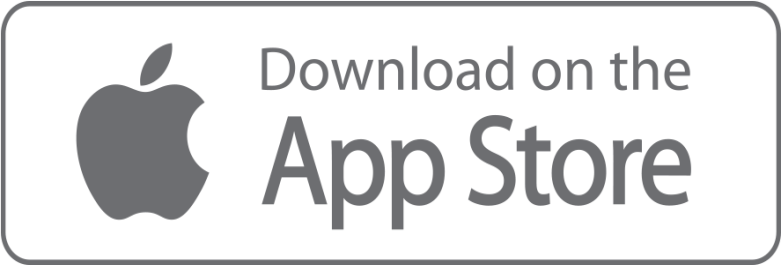
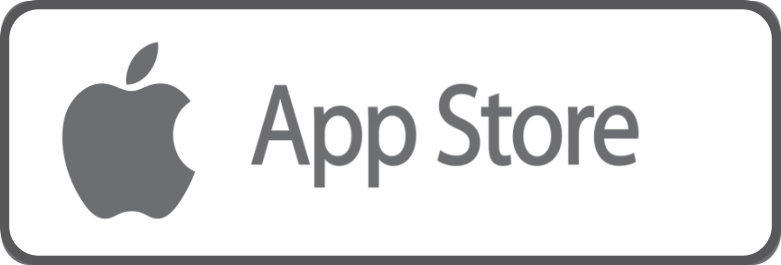
feat: market urls

Changed region(s): [[0.3073, 0.1811, 0.8912, 0.8755], [0.0, 0.0, 1.0, 0.9962], [0.0615, 0.1509, 0.2766, 0.8453]]

diff --git a/index.html b/index.html
@@ -158,14 +158,11 @@
               are the best driver, do not stop and enjoy the game! 🎮 #game #race #cars #graphics #driver
             </p>
             <div class="row feature-item">
-              <a href="#features" class="col-lg-6 wow fadeInUp ">
-                <!-- <img src="img/googleplay.png" class="img-fluid" alt=""> -->
-                <p>
-                  Coming Soon...
-                </p>
+              <a href="https://play.google.com/store/apps/details?id=com.arikan.realdriver" target="_blank" class="col-lg-6 wow fadeInUp ">
+                <img src="img/googleplay.png" class="img-fluid" alt="">
               </a>
-              <a href="#features" class="col-lg-6 wow fadeInUp ">
-                <!-- <img src="img/appstore.png" class="img-fluid" alt=""> -->
+              <a href="https://apps.apple.com/us/app/real-driver-legend-of-the-city/id1607564621" target="_blank" class="col-lg-6 wow fadeInUp ">
+                <img src="img/appstore.png" class="img-fluid" alt="">
                 <!-- <p>
                   Coming Soon...
                 </p> -->
@@ -188,11 +185,14 @@
                   If you think that you are the best gamer, do not stop and enjoy the game! 🎮
                 </p>
                 <div class="row feature-item">
-                  <a href="#features" class="col-lg-6 wow fadeInUp ">
+                  <a href="https://play.google.com/store/apps/details?id=com.bilalarikan.stpr" target="_blank" class="col-lg-6 wow fadeInUp ">
                     <img src="img/googleplay.png" class="img-fluid" alt="">
                   </a>
                   <a href="#features" class="col-lg-6 wow fadeInUp ">
-                    <img src="img/appstore.png" class="img-fluid" alt="">
+                    <!-- <img src="img/appstore.png" class="img-fluid" alt=""> -->
+                    <p>
+                      Coming Soon...
+                    </p>
                   </img>
                   </a>
                 </div>
@@ -212,7 +212,7 @@
                 </p>
                 <div class="row feature-item">
                   <a href="#features" class="col-lg-6 wow fadeInUp ">
-                    <!-- <img src="img/googleplay.png" class="img-fluid" alt=""> -->
+                    <!-- <img src="img/appstore.png" class="img-fluid" alt=""> -->
                     <p>
                       Coming Soon...
                     </p>
@@ -243,15 +243,9 @@
                   If you think that you are the best gamer, do not stop and enjoy the game! 🎮
                 </p>
                 <div class="row feature-item">
-                  <a href="#features" class="col-lg-6 wow fadeInUp ">
-                    <!-- <img src="img/googleplay.png" class="img-fluid" alt=""> -->
-                    <p>
-                      Coming Soon...
-                    </p>
-                  </a>
-                  <!-- <a href="https://play.google.com/store/apps/details?id=com.arikan.neon" class="col-lg-6 wow fadeInUp ">
+                  <a href="https://play.google.com/store/apps/details?id=com.arikan.neon" target="_blank" class="col-lg-6 wow fadeInUp ">
                     <img src="img/googleplay.png" class="img-fluid" alt="">
-                  </a> -->
+                  </a>
                   <a href="#features" class="col-lg-6 wow fadeInUp ">
                     <!-- <img src="img/appstore.png" class="img-fluid" alt=""> -->
                     <p>
@@ -275,11 +269,8 @@
                   If you think that you are the best gamer, do not stop and enjoy the game! 🎮
                 </p>
                 <div class="row feature-item">
-                  <a href="#features" class="col-lg-6 wow fadeInUp ">
-                    <!-- <img src="img/googleplay.png" class="img-fluid" alt=""> -->
-                    <p>
-                      Coming Soon...
-                    </p>
+                  <a href="https://play.google.com/store/apps/details?id=com.arikan.platforms" target="_blank" class="col-lg-6 wow fadeInUp ">
+                    <img src="img/googleplay.png" class="img-fluid" alt="">
                   </a>
                   <a href="#features" class="col-lg-6 wow fadeInUp ">
                     <!-- <img src="img/appstore.png" class="img-fluid" alt=""> -->
@@ -307,15 +298,9 @@
                   If you think that you are the best gamer, do not stop and enjoy the game! 🎮
                 </p>
                 <div class="row feature-item">
-                  <a href="#features" class="col-lg-6 wow fadeInUp ">
-                    <!-- <img src="img/googleplay.png" class="img-fluid" alt=""> -->
-                    <p>
-                      Coming Soon...
-                    </p>
-                  </a>
-                  <!-- <a href="https://play.google.com/store/apps/details?id=com.arikan.neon" class="col-lg-6 wow fadeInUp ">
+                  <a href="https://play.google.com/store/apps/details?id=com.arikan.mthd" target="_blank" class="col-lg-6 wow fadeInUp ">
                     <img src="img/googleplay.png" class="img-fluid" alt="">
-                  </a> -->
+                  </a>
                   <a href="#features" class="col-lg-6 wow fadeInUp ">
                     <!-- <img src="img/appstore.png" class="img-fluid" alt=""> -->
                     <p>
@@ -339,11 +324,8 @@
                   If you think that you are the best gamer, do not stop and enjoy the game! 🎮
                 </p>
                 <div class="row feature-item">
-                  <a href="#features" class="col-lg-6 wow fadeInUp ">
-                    <!-- <img src="img/googleplay.png" class="img-fluid" alt=""> -->
-                    <p>
-                      Coming Soon...
-                    </p>
+                  <a href="https://play.google.com/store/apps/details?id=com.arikan.wartrain" target="_blank" class="col-lg-6 wow fadeInUp ">
+                    <img src="img/googleplay.png" class="img-fluid" alt="">
                   </a>
                   <a href="#features" class="col-lg-6 wow fadeInUp ">
                     <!-- <img src="img/appstore.png" class="img-fluid" alt=""> -->
